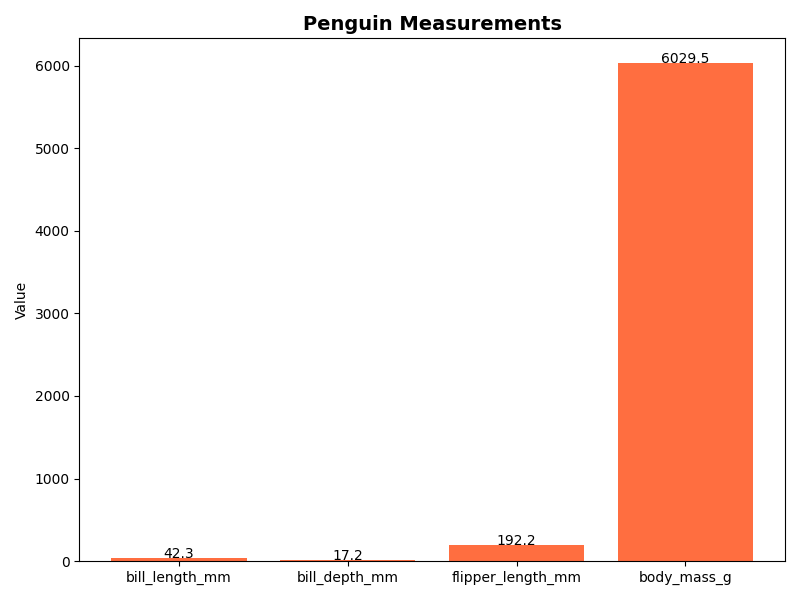
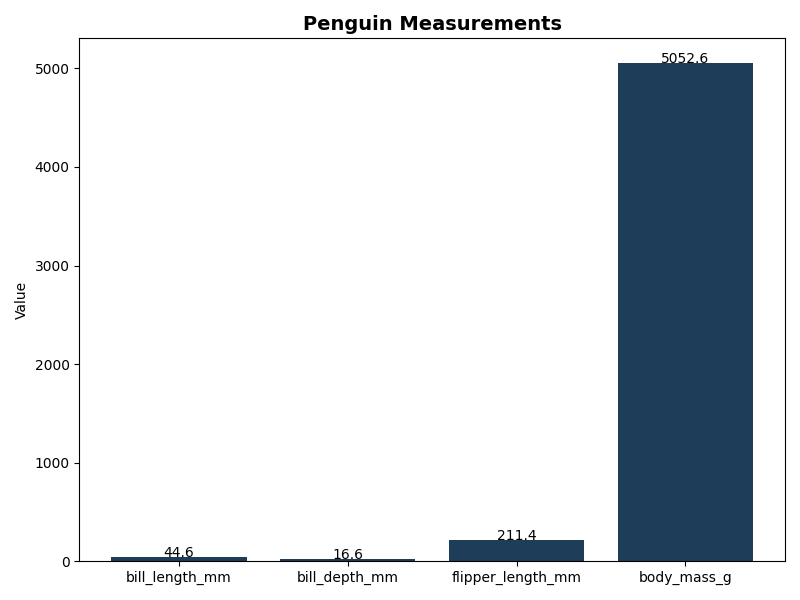
Update penguin prediction for 2025-04-06

diff --git a/index.html b/index.html
@@ -46,18 +46,18 @@
 <body>
     <div class="container">
         <h1>Penguin Prediction Report</h1>
-        <p><strong>Date:</strong> 2025-04-05</p>
-        <p><strong>Time:</strong> 18:38:49</p>
+        <p><strong>Date:</strong> 2025-04-06</p>
+        <p><strong>Time:</strong> 07:34:34</p>
 
         <div class="prediction">
             <h2>Prediction Details</h2>
-            <p><strong>Predicted Species:</strong> Adelie</p>
-            <p><strong>Bill Length (mm):</strong> 42.27533941593972</p>
-            <p><strong>Bill Depth (mm):</strong> 17.18464932652063</p>
-            <p><strong>Flipper Length (mm):</strong> 192.21286291489838</p>
-            <p><strong>Body Mass (g):</strong> 6029.452271307033</p>
+            <p><strong>Predicted Species:</strong> Gentoo</p>
+            <p><strong>Bill Length (mm):</strong> 44.591049344317554</p>
+            <p><strong>Bill Depth (mm):</strong> 16.62642281800148</p>
+            <p><strong>Flipper Length (mm):</strong> 211.37613907921613</p>
+            <p><strong>Body Mass (g):</strong> 5052.641450137844</p>
             <p><strong>Sex:</strong> </p>
-            <p class="note">This is likely one of the Penguins of Madagascar!</p>
+            <p class="note">Not one of the Penguins of Madagascar</p>
         </div>
 
         <div class="image-container">
